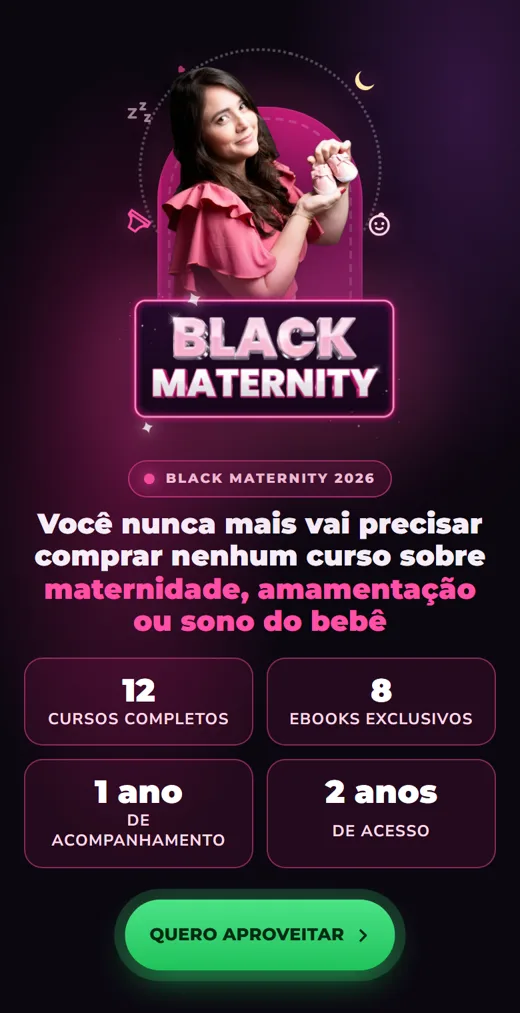
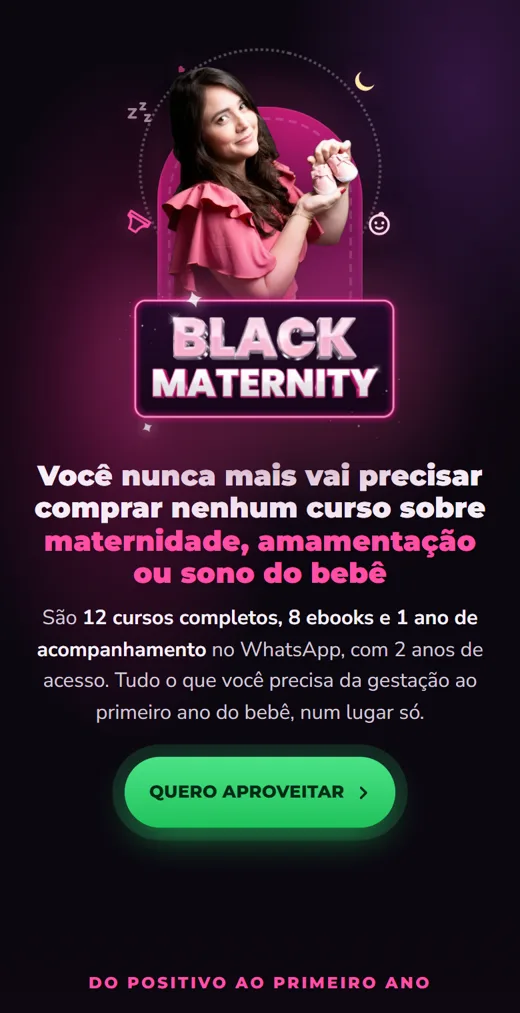
black 2026: pagina de vendas v2, ajustes (fases, atencao, sem grupo de maes)

diff --git a/2026-10-26-black-2026/black-maternity/pagina-de-vendas-v2/index.html b/2026-10-26-black-2026/black-maternity/pagina-de-vendas-v2/index.html
@@ -238,15 +238,23 @@ footer{padding:26px 18px calc(26px + env(safe-area-inset-bottom));text-align:cen
 @media (prefers-reduced-motion:reduce){.portrait .rings,.portrait .cf,.form button,.cta,.placa-aula,.logo-placa .bri,.logo-placa .logo-bm{animation:none}}
 
 /* v2: página de vendas */
-.selos{display:grid;grid-template-columns:repeat(2,1fr);gap:10px;width:100%;max-width:480px;margin-top:6px}
-.selo{background:rgba(226,31,130,.12);border:1px solid rgba(255,79,166,.45);border-radius:14px;padding:12px 10px;display:grid;gap:2px;text-align:center}
-.selo b{font-family:var(--fd);font-weight:900;font-size:1.5rem;line-height:1;color:#fff}
-.selo span{font-size:.74rem;font-weight:700;letter-spacing:.06em;text-transform:uppercase;color:#FFD9E6;line-height:1.25}
-.hero .cta-c{margin-top:16px;text-align:left}
-@media(max-width:860px){.selos{margin-inline:auto}.hero .cta-c{text-align:center}.hero h1{font-size:1.32rem}}
+.hero .desc{color:var(--mut);font-size:1.05rem;line-height:1.55;max-width:480px}
+.hero .desc b{color:var(--txt)}
+.hero .cta-c{margin-top:14px;text-align:left}
+@media(max-width:860px){.hero .cta-c{text-align:center}.hero h1{font-size:1.32rem}.hero .desc{font-size:.96rem}}
+#jornada{scroll-margin-top:10px}
 .jornada{background:linear-gradient(180deg,var(--bg) 0%,#1F0A2C 100%)}
-.passos{display:grid;gap:26px;max-width:960px;margin:0 auto}
-.passo{display:grid;grid-template-columns:300px 1fr;gap:28px;align-items:center;background:linear-gradient(180deg,#24122D,#190D20);border:1px solid var(--line);border-radius:24px;padding:18px}
+.passos{display:grid;gap:34px;max-width:960px;margin:0 auto;position:relative}
+/* linha neon suave ligando as fases */
+.passos::before{content:"";position:absolute;left:50%;top:-18px;bottom:-18px;width:2px;transform:translateX(-50%);background:linear-gradient(180deg,transparent,#FF4FA6 6%,#B57BFF 50%,#FF4FA6 94%,transparent);box-shadow:0 0 10px #FF4FA6,0 0 22px rgba(181,123,255,.6);opacity:.75;animation:fio 3.2s ease-in-out infinite}
+@keyframes fio{50%{opacity:.4}}
+.passo{position:relative;z-index:1}
+.passo:nth-child(1){background:linear-gradient(160deg,#3A1647,#1E0C26)}
+.passo:nth-child(2){background:linear-gradient(160deg,#4A1235,#260A1C)}
+.passo:nth-child(3){background:linear-gradient(160deg,#2A1A4A,#160E2A)}
+.passo:nth-child(4){background:linear-gradient(160deg,#441A3F,#220D20)}
+.passo:nth-child(5){background:linear-gradient(160deg,#4D1A33,#28101C)}
+.passo{display:grid;grid-template-columns:300px 1fr;gap:28px;align-items:center;border:1px solid rgba(255,79,166,.28);border-radius:24px;padding:18px;box-shadow:0 18px 40px -24px rgba(0,0,0,.8)}
 .passo:nth-child(even){grid-template-columns:1fr 300px}.passo:nth-child(even) .p-img{order:2}
 .p-img{position:relative;border-radius:18px;overflow:hidden;aspect-ratio:4/5}
 .p-img img{width:100%;height:100%;object-fit:cover;object-position:50% 28%}
@@ -255,13 +263,17 @@ footer{padding:26px 18px calc(26px + env(safe-area-inset-bottom));text-align:cen
 .p-txt .eyebrow{font-size:.7rem}
 .p-txt h3{font-size:clamp(1.2rem,3vw,1.55rem);font-weight:900;line-height:1.2}
 .p-txt p{color:var(--mut)}
-.chips{display:flex;flex-wrap:wrap;gap:7px;margin-top:4px}
-.chip{display:inline-flex;align-items:center;gap:6px;font-size:.8rem;font-weight:700;line-height:1.2;padding:7px 11px;border-radius:999px;background:rgba(255,255,255,.06);border:1px solid rgba(255,255,255,.14);color:#F6EEF7}
-.chip i{font-style:normal;font-size:.62rem;font-weight:800;letter-spacing:.06em;text-transform:uppercase;color:var(--mag2)}
-@media(max-width:760px){.passo,.passo:nth-child(even){grid-template-columns:1fr;padding:14px}.passo:nth-child(even) .p-img{order:0}.p-img{aspect-ratio:1/1}}
-.atencao{max-width:720px;margin:0 auto;border:2px solid var(--mag2);border-radius:22px;padding:22px 20px;background:rgba(226,31,130,.1);display:grid;gap:10px;text-align:center}
-.atencao b.t{font-family:var(--fd);font-weight:900;font-size:1.1rem;letter-spacing:.12em;text-transform:uppercase;color:var(--mag2)}
+.inclui{list-style:none;padding:0;margin-top:4px;display:grid;grid-template-columns:1fr 1fr;gap:7px 16px}
+.inclui li{display:flex;gap:8px;align-items:flex-start;font-size:.9rem;font-weight:700;line-height:1.3;color:#F6EEF7}
+.inclui li::before{content:"";flex:0 0 7px;height:7px;margin-top:6px;border-radius:50%;background:var(--mag2);box-shadow:0 0 8px var(--mag2)}
+.p-txt .incl-t{font-size:.72rem;font-weight:800;letter-spacing:.1em;text-transform:uppercase;color:var(--mut);margin-top:2px}
+@media(max-width:760px){.inclui{grid-template-columns:1fr}.passo,.passo:nth-child(even){grid-template-columns:1fr;padding:14px}.passo:nth-child(even) .p-img{order:0}.p-img{aspect-ratio:1/1}}
+.atencao{max-width:720px;margin:0 auto;border:2px solid var(--mag2);border-radius:24px;padding:26px 22px;background:radial-gradient(80% 120% at 50% 0%,rgba(255,79,166,.28),rgba(226,31,130,.08));display:grid;gap:10px;text-align:center;animation:pulso 2.4s ease-in-out infinite}
+@keyframes pulso{0%,100%{transform:scale(1);box-shadow:0 0 0 0 rgba(255,79,166,.45),0 0 26px rgba(255,79,166,.35)}50%{transform:scale(1.02);box-shadow:0 0 0 10px rgba(255,79,166,0),0 0 40px rgba(255,79,166,.6)}}
+.atencao b.t{font-family:var(--fd);font-weight:900;font-size:1rem;letter-spacing:.16em;text-transform:uppercase;color:var(--mag2)}
+.atencao .off{font-family:var(--fd);font-weight:900;font-size:clamp(1.7rem,6vw,2.5rem);line-height:1.05;text-transform:uppercase;background:linear-gradient(180deg,#fff 30%,#FFB8D9);-webkit-background-clip:text;background-clip:text;color:transparent;filter:drop-shadow(0 0 14px rgba(255,79,166,.55))}
 .atencao p{color:var(--txt)}
+@media (prefers-reduced-motion:reduce){.atencao,.passos::before{animation:none}}
 .oferta .caixa{max-width:560px;padding:28px 22px;gap:14px;box-shadow:0 0 0 2px rgba(255,79,166,.55),0 30px 70px -30px rgba(226,31,130,.7)}
 .recebe{list-style:none;padding:0;display:grid;gap:9px}
 .recebe li{display:flex;gap:10px;align-items:center;font-weight:700}
@@ -301,20 +313,14 @@ footer{padding:26px 18px calc(26px + env(safe-area-inset-bottom));text-align:cen
     
     </div>
     <div class="hero-txt">
-      <span class="tag-aula">Black Maternity 2026</span>
       <h1>Você nunca mais vai precisar comprar nenhum curso sobre <span class="mag">maternidade, amamentação ou sono do bebê</span></h1>
-      <div class="selos">
-        <div class="selo"><b>12</b><span>cursos completos</span></div>
-        <div class="selo"><b>8</b><span>ebooks exclusivos</span></div>
-        <div class="selo"><b>1 ano</b><span>de acompanhamento</span></div>
-        <div class="selo"><b>2 anos</b><span>de acesso</span></div>
-      </div>
-      <div class="cta-c"><a class="cta" href="#oferta"><span>Quero aproveitar</span><svg class="seta" viewBox="0 0 24 24" fill="none" stroke="currentColor" stroke-width="3.2" stroke-linecap="round" stroke-linejoin="round" aria-hidden="true"><path d="m9 5 7 7-7 7"/></svg></a></div>
+      <p class="desc">São <b>12 cursos completos, 8 ebooks e 1 ano de acompanhamento</b> no WhatsApp, com 2 anos de acesso. Tudo o que você precisa da gestação ao primeiro ano do bebê, num lugar só.</p>
+      <div class="cta-c"><a class="cta" href="#jornada"><span>Quero aproveitar</span><svg class="seta" viewBox="0 0 24 24" fill="none" stroke="currentColor" stroke-width="3.2" stroke-linecap="round" stroke-linejoin="round" aria-hidden="true"><path d="m9 5 7 7-7 7"/></svg></a></div>
     </div>
   </div>
 </header>
 
-<section class="jornada">
+<section class="jornada" id="jornada">
   <div class="wrap">
     <div class="titulo">
       <span class="eyebrow">Do positivo ao primeiro ano</span>
@@ -327,7 +333,8 @@ footer{padding:26px 18px calc(26px + env(safe-area-inset-bottom));text-align:cen
           <span class="eyebrow">Na gestação</span>
           <h3>Preparada para a chegada do bebê</h3>
           <p>Você monta seu plano de parto, entende cada etapa do grande dia e deixa o enxoval pronto, sem comprar o que não precisa.</p>
-          <div class="chips"><span class="chip">Plano de Parto <i>curso</i></span><span class="chip">O Dia do Parto <i>curso</i></span><span class="chip">Enxoval Descomplicado <i>ebook</i></span><span class="chip">Como Vestir o Bebê <i>ebook</i></span></div>
+          <span class="incl-t">Está incluso</span>
+          <ul class="inclui"><li>Plano de Parto</li><li>O Dia do Parto</li><li>Enxoval Descomplicado</li><li>Como Vestir o Bebê</li></ul>
         </div>
       </article>
       <article class="passo">
@@ -336,7 +343,8 @@ footer{padding:26px 18px calc(26px + env(safe-area-inset-bottom));text-align:cen
           <span class="eyebrow">Nos primeiros dias</span>
           <h3>Segura nos primeiros cuidados</h3>
           <p>Banho, cólica, choro, umbigo, e o que fazer numa emergência. Você cuida do bebê com calma, sabendo o que é normal e o que não é.</p>
-          <div class="chips"><span class="chip">Bebê Calminho <i>curso</i></span><span class="chip">Primeiros Socorros <i>curso</i></span><span class="chip">Saltos de Desenvolvimento <i>ebook</i></span></div>
+          <span class="incl-t">Está incluso</span>
+          <ul class="inclui"><li>Bebê Calminho</li><li>Primeiros Socorros</li><li>Saltos de Desenvolvimento</li></ul>
         </div>
       </article>
       <article class="passo">
@@ -345,7 +353,8 @@ footer{padding:26px 18px calc(26px + env(safe-area-inset-bottom));text-align:cen
           <span class="eyebrow">Na amamentação</span>
           <h3>Amamentando com conforto</h3>
           <p>Pega certa desde o começo, produção de leite, como tirar e guardar o leite e o que fazer quando precisar complementar.</p>
-          <div class="chips"><span class="chip">Técnica Dos Anjos <i>curso</i></span><span class="chip">Guia da Pega <i>curso</i></span><span class="chip">Técnica Pesque Baby <i>curso</i></span><span class="chip">Como Estocar o Leite <i>curso</i></span><span class="chip">Manual do Complemento <i>curso</i></span><span class="chip">Alta Produção de Leite <i>ebook</i></span></div>
+          <span class="incl-t">Está incluso</span>
+          <ul class="inclui"><li>Técnica Dos Anjos</li><li>Guia da Pega</li><li>Técnica Pesque Baby</li><li>Como Estocar o Leite</li><li>Manual do Complemento</li><li>Alta Produção de Leite</li></ul>
         </div>
       </article>
       <article class="passo">
@@ -354,7 +363,8 @@ footer{padding:26px 18px calc(26px + env(safe-area-inset-bottom));text-align:cen
           <span class="eyebrow">No sono</span>
           <h3>Com o bebê dormindo bem</h3>
           <p>Rotina que respeita o ritmo do bebê, sonecas que funcionam e noites mais tranquilas, sem deixar chorar.</p>
-          <div class="chips"><span class="chip">Método Dream Baby <i>curso</i></span><span class="chip">Dream Baby Pocket <i>curso</i></span><span class="chip">Mini Curso de Rotina <i>curso</i></span><span class="chip">Entre Sonecas <i>ebook</i></span><span class="chip">Rotina do Bebê <i>ebook</i></span></div>
+          <span class="incl-t">Está incluso</span>
+          <ul class="inclui"><li>Método Dream Baby</li><li>Dream Baby Pocket</li><li>Mini Curso de Rotina</li><li>Entre Sonecas</li><li>Rotina do Bebê</li></ul>
         </div>
       </article>
       <article class="passo">
@@ -363,7 +373,8 @@ footer{padding:26px 18px calc(26px + env(safe-area-inset-bottom));text-align:cen
           <span class="eyebrow">No primeiro ano</span>
           <h3>Tranquila pra viver cada fase</h3>
           <p>Introdução alimentar, brincadeiras pra cada idade e uma consultora da nossa equipe com você no WhatsApp por 1 ano inteiro.</p>
-          <div class="chips"><span class="chip">Introdução Alimentar <i>ebook</i></span><span class="chip">Atividades pra Gastar Energia <i>ebook</i></span><span class="chip">1 ano de acompanhamento <i>bônus</i></span></div>
+          <span class="incl-t">Está incluso</span>
+          <ul class="inclui"><li>Introdução Alimentar</li><li>Atividades pra Gastar Energia</li><li>1 ano de acompanhamento</li></ul>
         </div>
       </article>
     </div>
@@ -400,9 +411,6 @@ footer{padding:26px 18px calc(26px + env(safe-area-inset-bottom));text-align:cen
       <div class="linha"><span>Saltos de Desenvolvimento</span><s>R$ 59</s></div>
       <div class="linha"><span>Atividades pra Gastar Energia</span><s>R$ 59</s></div>
     </div>
-      <p class="grupo-t">Bônus</p>
-      <div class="linha"><span>Acompanhamento por 1 ano no WhatsApp</span><s>R$ 582</s></div>
-      <div class="linha"><span>Grupo de mães + grupo de cupons do enxoval</span><b>Bônus</b></div>
       <div class="total"><span class="na">Total fora da Black Maternity</span><span class="de">R$ 2.770</span></div>
     </div>
   </div>
@@ -418,7 +426,7 @@ footer{padding:26px 18px calc(26px + env(safe-area-inset-bottom));text-align:cen
       </div>
       <div class="extra">
         <div class="extra-img"><img src="../../assets/bm-enxoval-cupons.webp" alt="Roupinhas de bebê penduradas" width="900" height="675" loading="lazy"><span class="selo-img">% Cupons em primeira mão</span></div>
-        <div class="extra-txt"><h3>Grupo de mães e grupo de cupons</h3><p>Um grupo pra trocar experiências com outras mães e um grupo com os melhores cupons de fraldas, roupinhas e enxoval, chegando pra você antes de todo mundo.</p></div>
+        <div class="extra-txt"><h3>Grupo do enxoval com cupons em primeira mão</h3><p>Os melhores cupons de fraldas, roupinhas, higiene e enxoval, selecionados pela nossa equipe e chegando pra você antes de todo mundo.</p></div>
       </div>
     </div>
   </div>
@@ -428,7 +436,8 @@ footer{padding:26px 18px calc(26px + env(safe-area-inset-bottom));text-align:cen
   <div class="wrap">
     <div class="atencao">
       <b class="t">Atenção</b>
-      <p>Essa é a oferta mais completa que a Day já fez, com mais de 70% de desconto. Quando a Black Maternity acabar, o valor volta ao normal e o acompanhamento de 1 ano deixa de fazer parte do pacote.</p>
+      <span class="off">Mais de 70% de desconto</span>
+      <p>Essa é a oferta mais completa que a Day já fez. Quando a Black Maternity acabar, o valor volta ao normal e o acompanhamento de 1 ano deixa de fazer parte do pacote.</p>
     </div>
     <div class="titulo" style="margin-top:44px"><span class="eyebrow">Tudo o que você vai receber</span><h2>Black Maternity</h2></div>
     <div class="caixa">
@@ -436,7 +445,7 @@ footer{padding:26px 18px calc(26px + env(safe-area-inset-bottom));text-align:cen
         <li><svg viewBox="0 0 24 24" fill="none" stroke="currentColor" stroke-width="3" stroke-linecap="round" stroke-linejoin="round" aria-hidden="true"><path d="M5 12.5l4.5 4.5L19 7.5"/></svg>12 cursos completos, com acesso imediato</li>
         <li><svg viewBox="0 0 24 24" fill="none" stroke="currentColor" stroke-width="3" stroke-linecap="round" stroke-linejoin="round" aria-hidden="true"><path d="M5 12.5l4.5 4.5L19 7.5"/></svg>8 ebooks exclusivos</li>
         <li><svg viewBox="0 0 24 24" fill="none" stroke="currentColor" stroke-width="3" stroke-linecap="round" stroke-linejoin="round" aria-hidden="true"><path d="M5 12.5l4.5 4.5L19 7.5"/></svg>1 ano de acompanhamento no WhatsApp</li>
-        <li><svg viewBox="0 0 24 24" fill="none" stroke="currentColor" stroke-width="3" stroke-linecap="round" stroke-linejoin="round" aria-hidden="true"><path d="M5 12.5l4.5 4.5L19 7.5"/></svg>Grupo de mães e grupo de cupons</li>
+        <li><svg viewBox="0 0 24 24" fill="none" stroke="currentColor" stroke-width="3" stroke-linecap="round" stroke-linejoin="round" aria-hidden="true"><path d="M5 12.5l4.5 4.5L19 7.5"/></svg>Grupo do enxoval com cupons</li>
         <li><svg viewBox="0 0 24 24" fill="none" stroke="currentColor" stroke-width="3" stroke-linecap="round" stroke-linejoin="round" aria-hidden="true"><path d="M5 12.5l4.5 4.5L19 7.5"/></svg>2 anos de acesso a tudo</li>
         <li><svg viewBox="0 0 24 24" fill="none" stroke="currentColor" stroke-width="3" stroke-linecap="round" stroke-linejoin="round" aria-hidden="true"><path d="M5 12.5l4.5 4.5L19 7.5"/></svg>7 dias de garantia</li>
       </ul>
